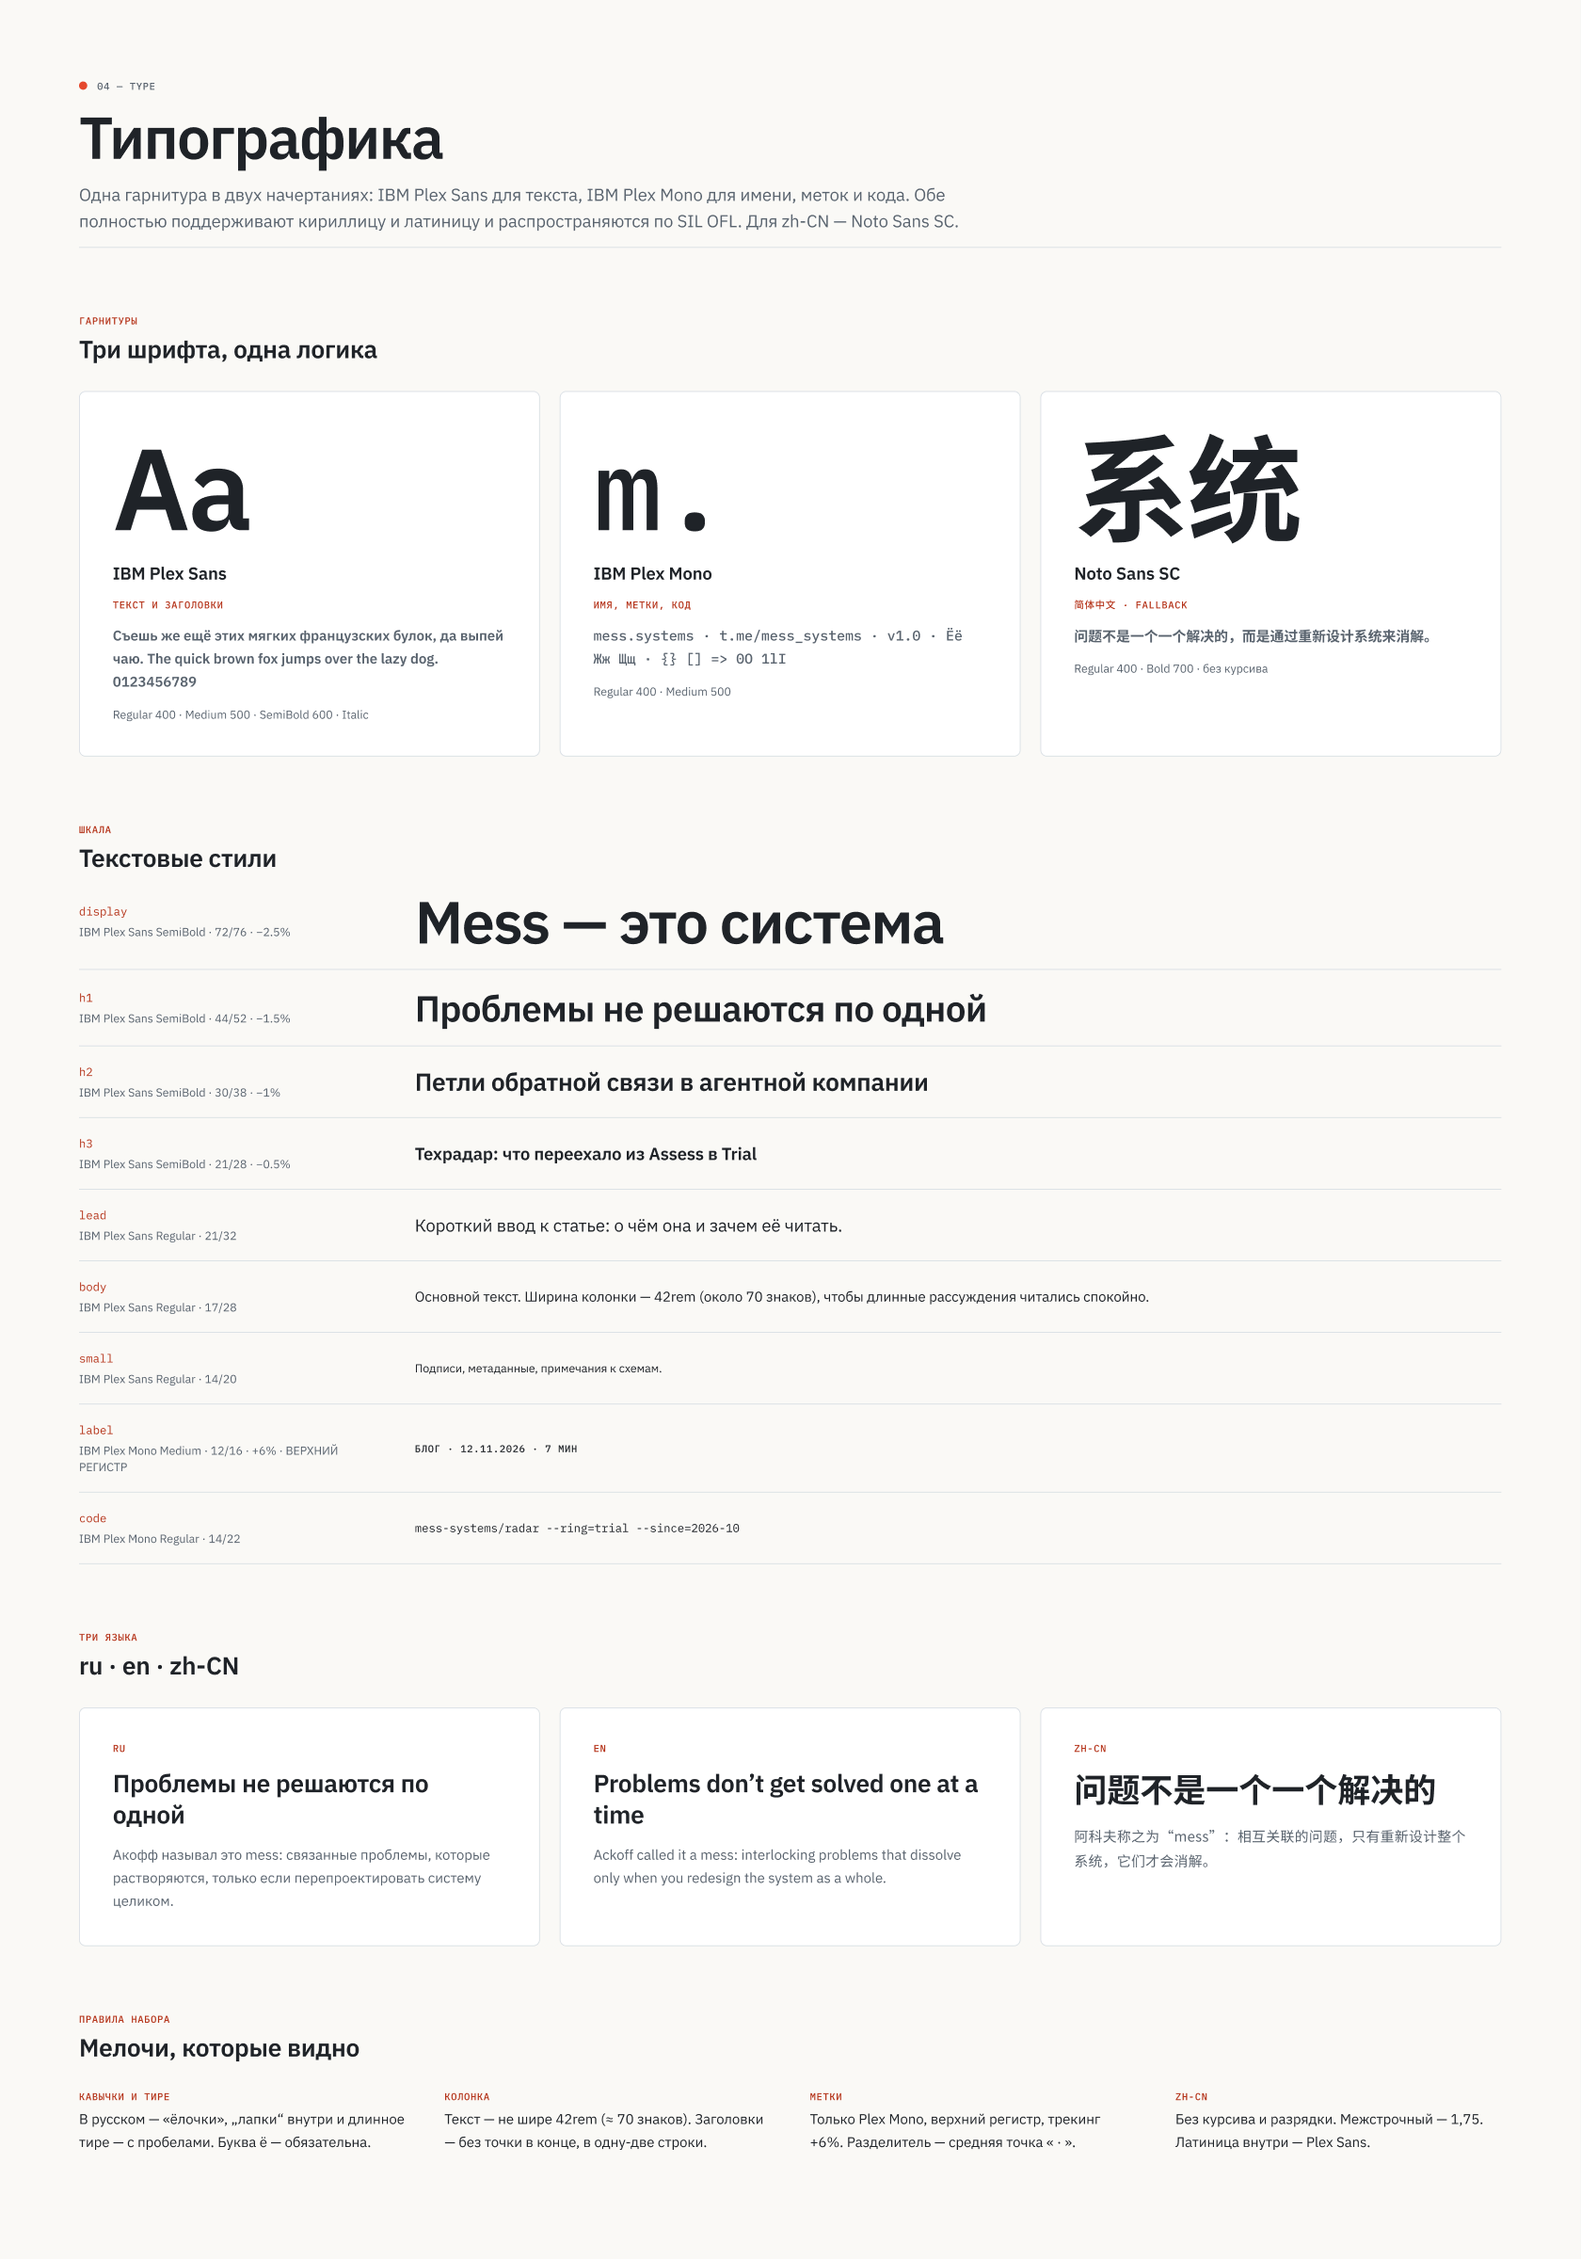
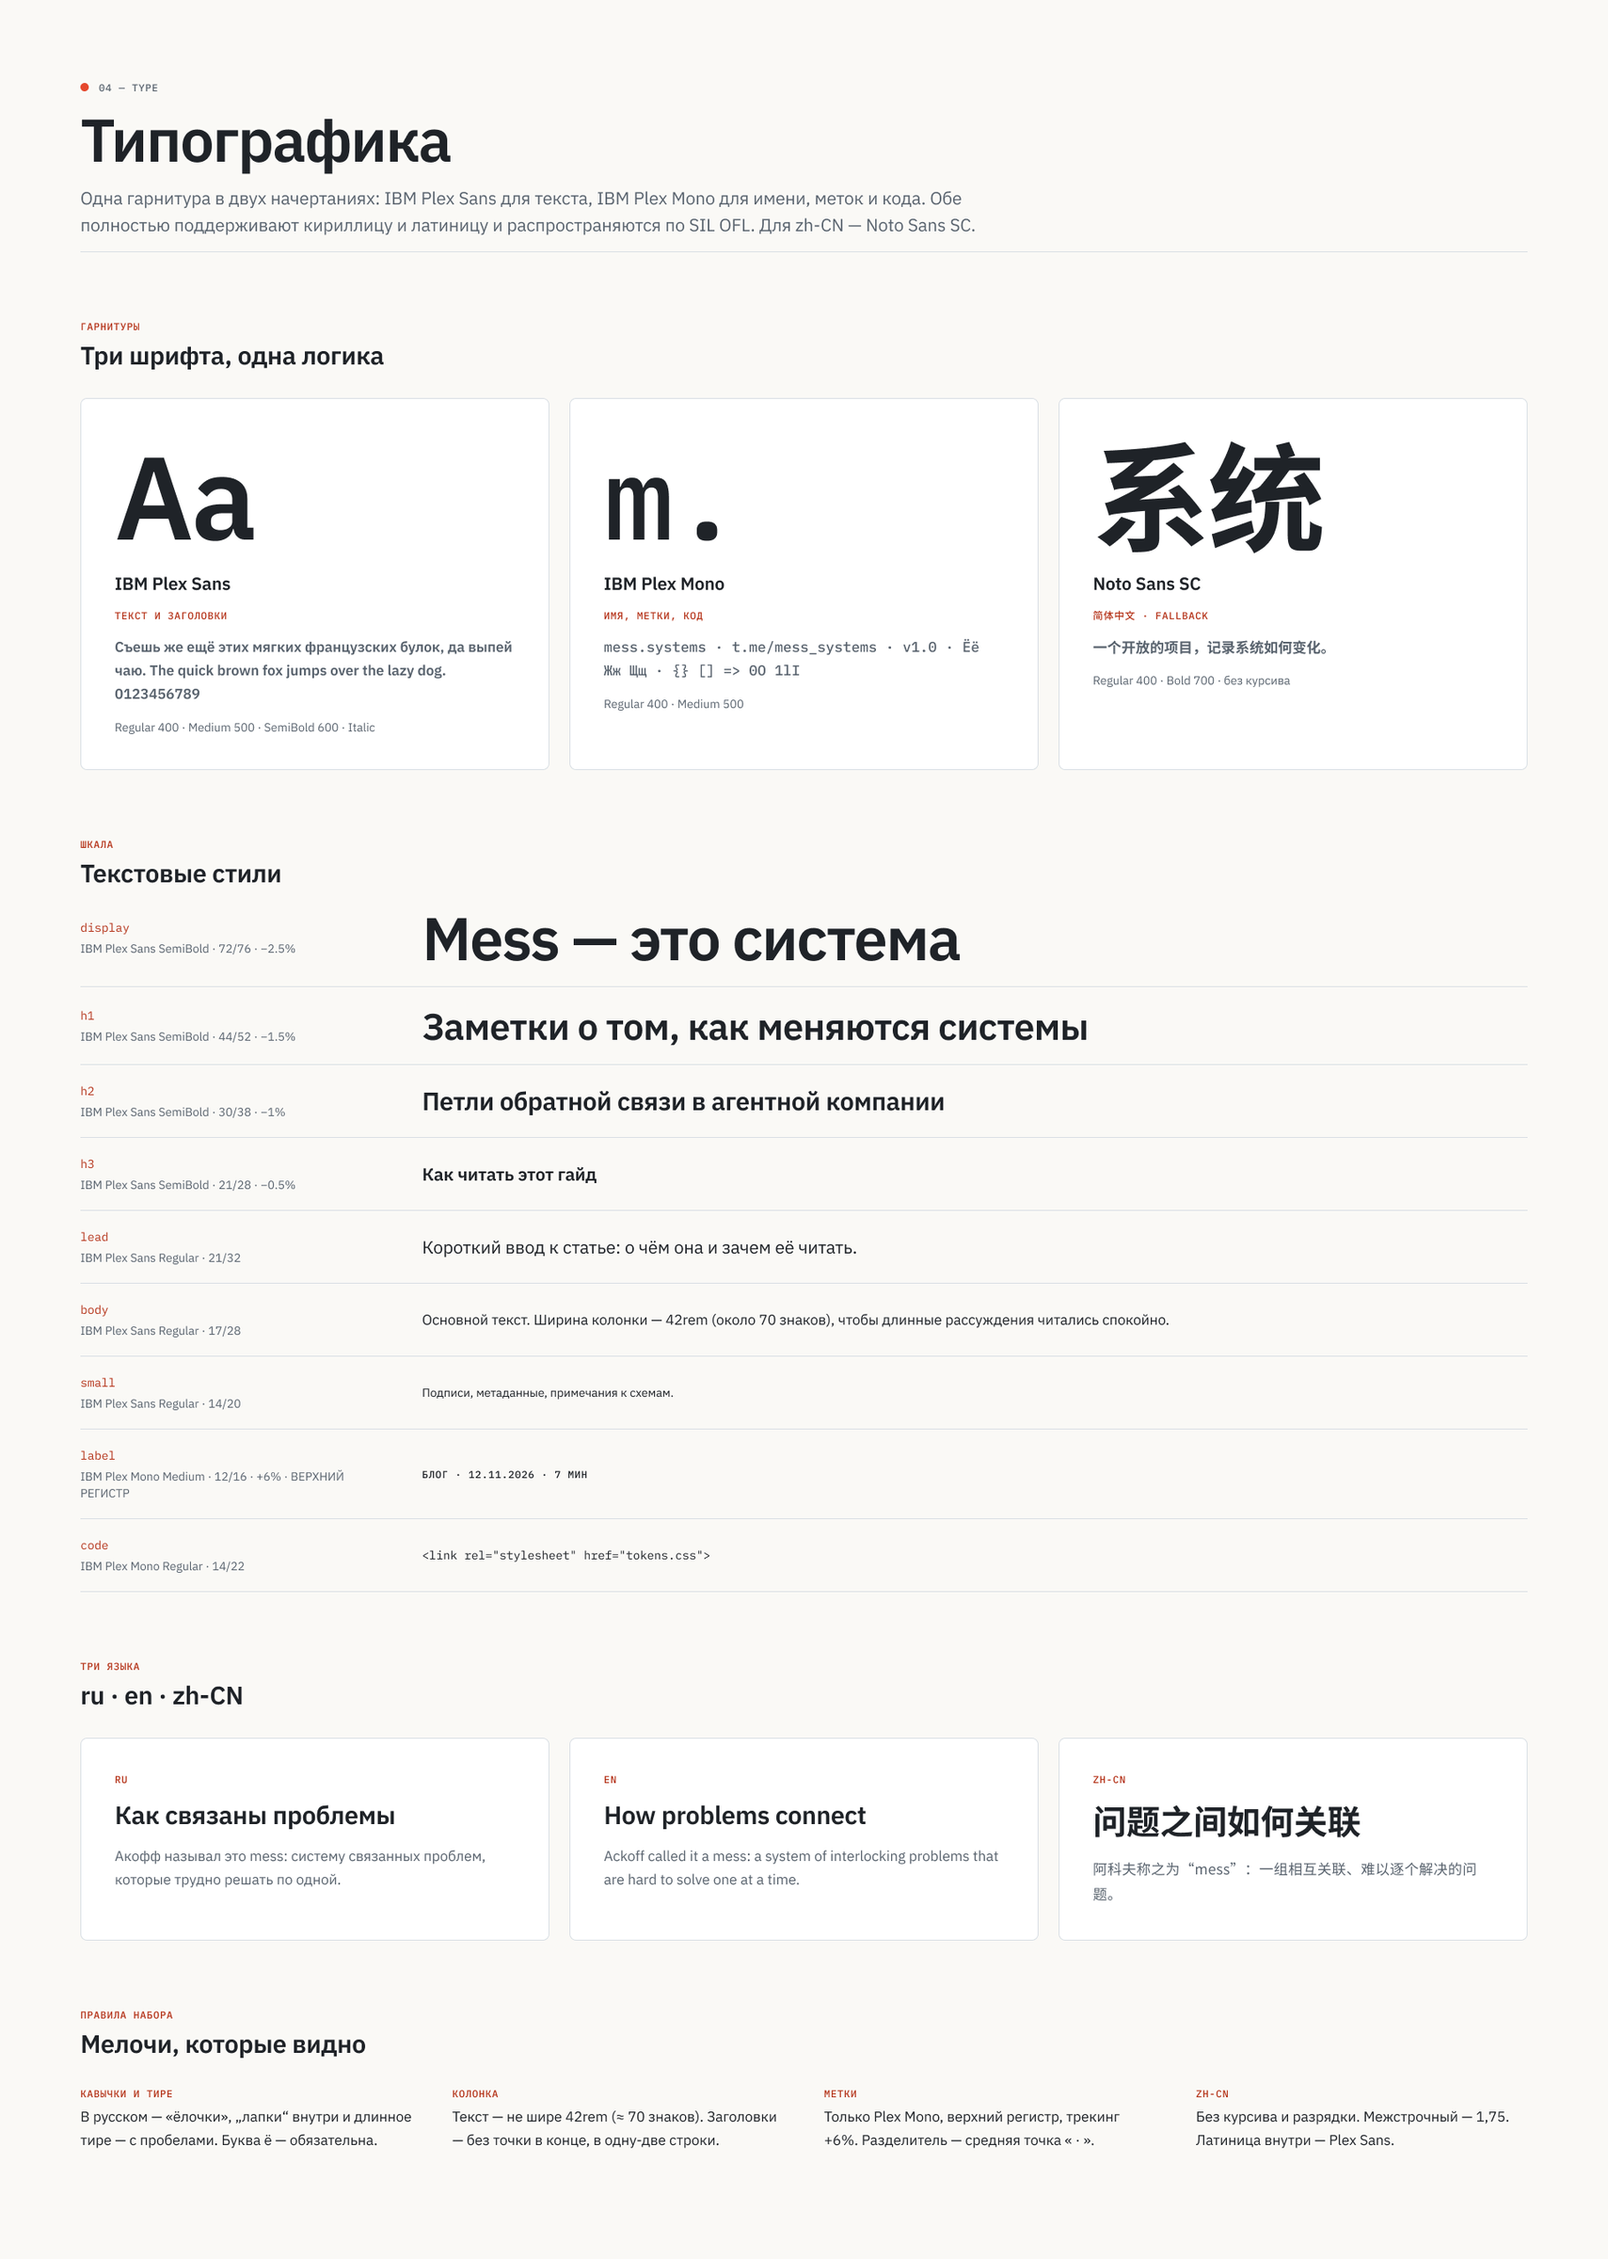
Убрать ссылку на Figma, нейтральные примеры в превью идеи и типографики

diff --git a/README.md b/README.md
@@ -4,7 +4,7 @@
 
 Визуальный язык проекта **mess.systems**: знак, словесный знак, цвета, шрифты, графика и правила, как всем этим пользоваться. Здесь лежат готовые файлы логотипа, иконки сайта и токены дизайна для CSS и других инструментов.
 
-Исходник в Figma: [«mess.systems — фирменный стиль»](https://www.figma.com/design/DhvKFPRm6hQzBldVbap2EU).
+Страницы гайда как картинки: [`docs/preview/`](docs/preview/).
 
 ![Обложка гайда](docs/preview/00-cover.png)
 

diff --git a/README.en.md b/README.en.md
@@ -4,7 +4,7 @@
 
 The visual language of **mess.systems**: the mark, the wordmark, colours, type, graphics, and the rules for using them. This repository holds ready-to-use logo files, site icons and design tokens for CSS and other tools.
 
-Figma source: [“mess.systems — фирменный стиль”](https://www.figma.com/design/DhvKFPRm6hQzBldVbap2EU).
+Guide pages as images: [`docs/preview/`](docs/preview/).
 
 ![Guide cover](docs/preview/00-cover.png)
 

diff --git a/README.zh-CN.md b/README.zh-CN.md
@@ -4,7 +4,7 @@
 
 **mess.systems** 的视觉语言：标志、文字标、颜色、字体、图形，以及使用规则。本仓库提供可直接使用的标志文件、网站图标和设计令牌（CSS 及其他工具）。
 
-Figma 源文件：[“mess.systems — фирменный стиль”](https://www.figma.com/design/DhvKFPRm6hQzBldVbap2EU)。
+规范页面图片：[`docs/preview/`](docs/preview/)。
 
 ![规范封面](docs/preview/00-cover.png)
 
